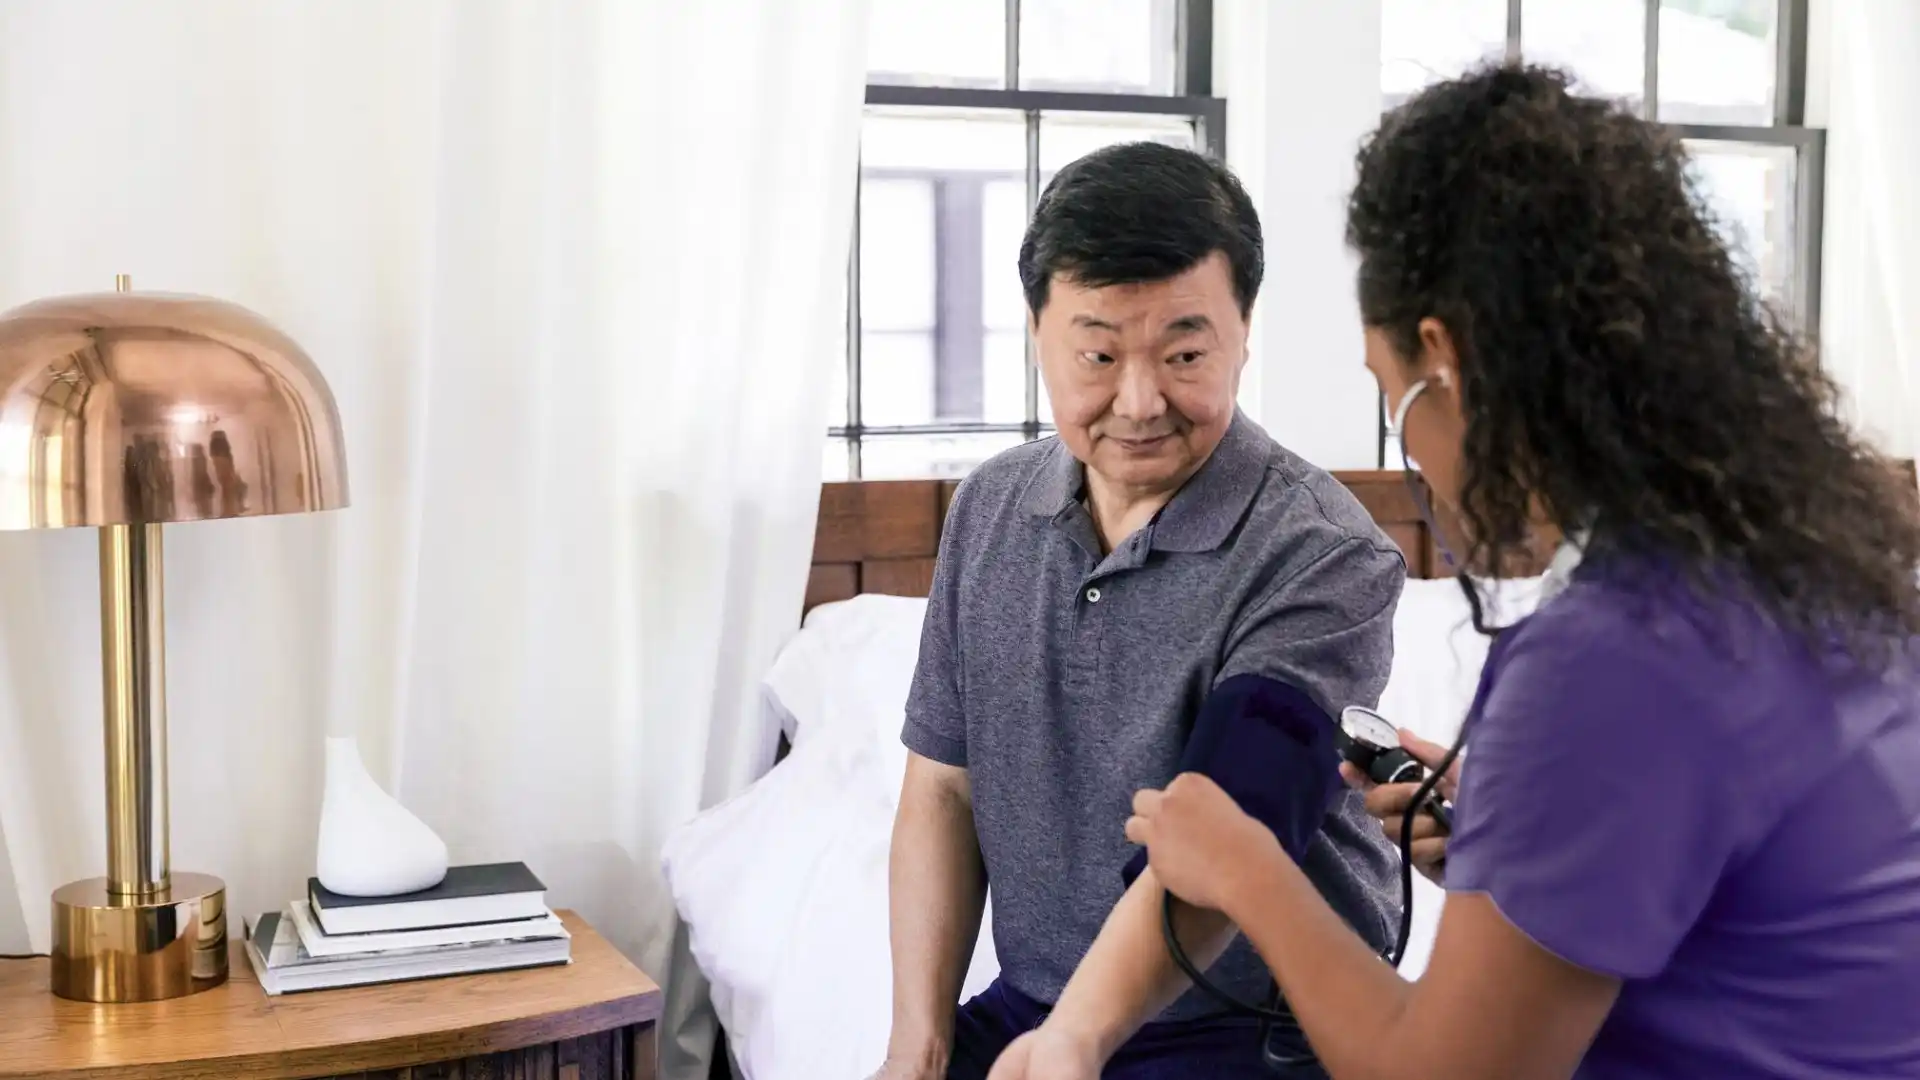
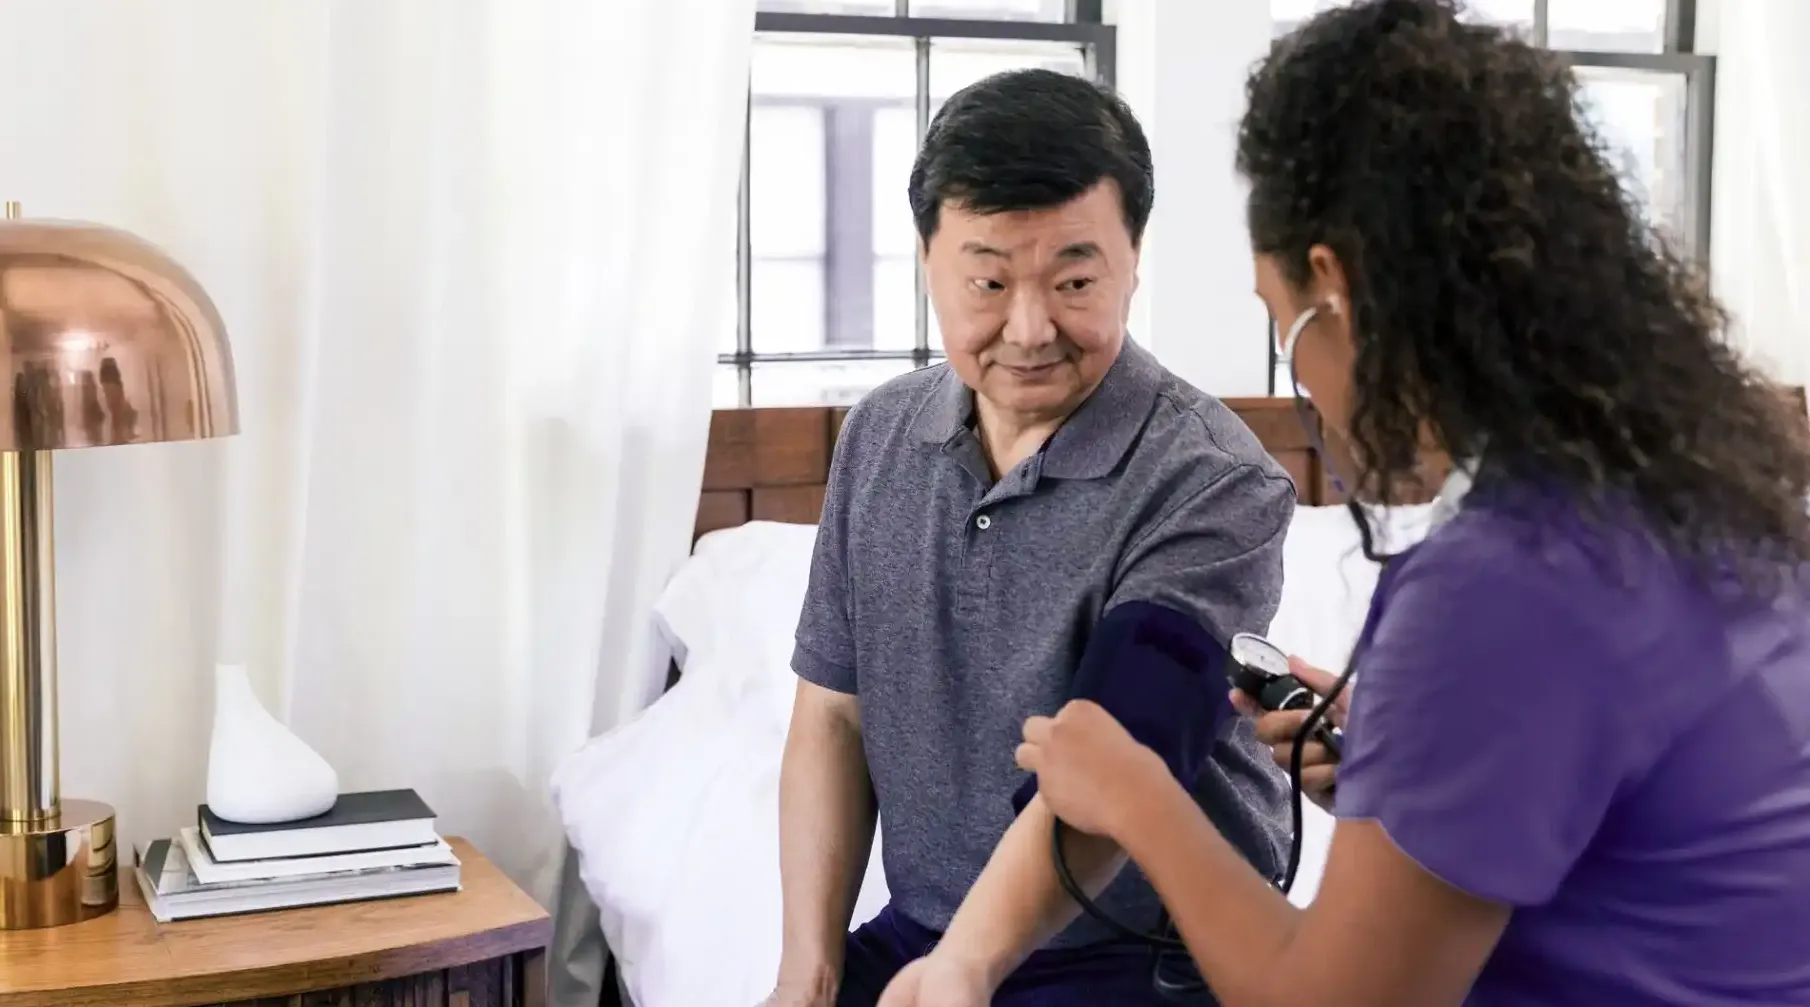
Edits and updates

diff --git a/src/pages/ServiceDetail.jsx b/src/pages/ServiceDetail.jsx
@@ -1,4 +1,5 @@
 import { useParams, Redirect } from "wouter"
+import { useEffect } from "react"
 import Icon from "./icons.jsx"
 import physioImg from "../assets/physio.webp"
 import physioBg from "../assets/physio-2.webp"
@@ -6,12 +7,15 @@ import companionImg from "../assets/companion-care.webp"
 import companionBg from "../assets/companion-1.webp"
 import specialCareImg from "../assets/img-38.webp"
 import specialCareBg from "../assets/img-42.webp"
-import careGiverImg from "../assets/caregiver.webp"
 import nurseInHouseImg from "../assets/img-8.webp"
 import nurseBg from "../assets/img-37.webp"
 import personalCareImg from "../assets/personal-care.webp"
 import personalCareBg from "../assets/img-43.webp"
+import respiteImg from "../assets/respite.webp"
 import respiteBg from "../assets/hands.webp"
+
+import familyDoctorImg from "../assets/img-21.webp"
+import familyDoctorBg from "../assets/doctor-bg.webp"
 
 const services = {
   nursing: {
@@ -96,7 +100,7 @@ const services = {
     title: "Respite Services",
     tag: "Relief for Caregivers",
     backgroundImg: respiteBg,
-    image: careGiverImg,
+    image: respiteImg,
     description:
        "Our respite care services provide temporary relief for family caregivers, allowing them time to rest, attend to personal matters, or simply recharge. Whether you need support for a few hours or several days, our professionally trained caregivers provide compassionate, reliable care tailored to your loved one’s unique needs. Each client receives a personalized care plan that promotes physical, cognitive, and emotional well-being, giving families peace of mind while taking a well-deserved break.",
     details: [
@@ -106,11 +110,31 @@ const services = {
       { title: "Peace of Mind", desc: "Reliable, vetted professionals you can trust in your home." },
     ],
   },
+  familyDoctor: {
+    title: "Doctor Support",
+    tag: "Connected Care",
+    backgroundImg: familyDoctorBg,
+    image: familyDoctorImg,
+    description:
+       "We help connect clients to family doctor services — whether that means coordinating transportation to an existing family physician, matching you with one of the physicians affiliated with Aglow, or accessing virtual care from the comfort of home. Our goal is to make primary care more accessible and reduce barriers to regular check-ups, follow-ups, and preventive health.",
+    details: [
+      { title: "Transportation Coordination", desc: "Arranging safe, dependable transportation to and from your scheduled medical appointments." },
+      { title: "Aglow-Affiliated Physicians", desc: "Connecting clients with family doctors who work alongside Aglow’s care team for coordinated support." },
+      { title: "Virtual Care Access", desc: "Help setting up and joining virtual appointments with your family doctor from the comfort of home." },
+      { title: "Appointment Reminders", desc: "Friendly check-in calls and appointment reminders help ensure you never miss an important visit." },
+      { title: "Follow-Up Support", desc: "Assistance with prescription pickups, lab referrals, and post-appointment care coordination." },
+      { title: "Health Navigation", desc: "Guidance on understanding referrals, specialist visits, and next steps in your care journey." },
+    ],
+  },
 }
 
 function ServiceDetail() {
   const { slug } = useParams()
   const service = services[slug]
+
+  useEffect(() => {
+    document.title = service.title + " | Aglow Home Health"
+  }, [service])
 
   if (!service) {
     return <Redirect to="/" />
@@ -121,7 +145,7 @@ function ServiceDetail() {
        <div className="service-detail-hero">
          <img src={service.backgroundImg} alt={service.title} />
          <div className="service-detail-hero-text">
-           <span className="eyebrow">Aglow Home Care</span>
+           <span className="eyebrow">Aglow Home Health</span>
            <h1>{service.tag}</h1>
            {service.heroTagline && (
              <p className="hero-card-desc">{service.heroTagline}</p>
@@ -136,7 +160,7 @@ function ServiceDetail() {
          <img
            className="service-detail-mid-image"
            src={service.image}
-           alt=""
+           alt={service.title + " care in the comfort of home"}
          />
          <h2 className="service-detail-subtitle">Services Include</h2>
 

diff --git a/src/pages/Contact.jsx b/src/pages/Contact.jsx
@@ -1,8 +1,12 @@
-import { useState } from "react"
+import { useState, useEffect } from "react"
 import services from "./servicesData.js"
-import dialogImg from "../assets/dialog.webp"
+import contactImg from "../assets/img-51.webp"
 
 function Contact() {
+  useEffect(() => {
+    document.title = "Contact Us | Aglow Home Health"
+  }, [])
+
   const [form, setForm] = useState({
     firstName: "",
     lastName: "",
@@ -26,9 +30,9 @@ function Contact() {
   return (
     <div className="contact-page">
       <div className="contact-hero">
-        <img src={dialogImg} alt="Home health care consultation" />
+        <img src={contactImg} alt="Home health care consultation" />
         <div className="contact-hero-text">
-          <p className="section-kicker">Aglow Home Care</p>
+          <p className="section-kicker">Aglow Home Health</p>
           <h1>Start the Coversation</h1>
         </div>
       </div>
@@ -44,7 +48,7 @@ function Contact() {
             </p>
             <p>
               We strive to respond to all inquiries within two business days. For immediate assistance,
-              please call us at <b>1-403-375-7676</b>. Let's start the conversation. We look forward to speaking with you.
+              please call us at <b>1-403-375-7242</b>. Let's start the conversation. We look forward to speaking with you.
             </p>
           </div>
 

diff --git a/src/pages/Footer.jsx b/src/pages/Footer.jsx
@@ -1,4 +1,5 @@
 import { Link } from "wouter"
+import { getEmail } from "../email.js"
 import services from "./servicesData.js"
 
 function Footer() {
@@ -22,13 +23,12 @@ function Footer() {
             <p>Aglow Home Health</p>
             <p>Unit 20, 217 Hawksbrow Drive NW</p>
             <p>Calgary, Alberta, T3G 3K2</p>
-            <p><a href="tel:+14033757676">1-403-375-7676</a></p>
-            <p><a href="mailto:[email redacted]">[email redacted]</a></p>
+            <p><a href="tel:+14033757242">1-403-375-7242</a></p>
+            <p><a href={"mailto:" + getEmail()}>{getEmail()}</a></p>
             <br />
             <h4 className="hours-heading">Business Hours</h4>
-            <p className="hours-row">Monday – Friday: 8:00 AM – 6:00 PM</p>
-            <p className="hours-row">Saturday: 9:00 AM – 3:00 PM</p>
-            <p className="hours-row">Sunday: Closed</p>
+            <p className="hours-row">Monday – Friday: 24 Hours</p>
+            <p className="hours-row">Saturday-Sunday: 24 Hours</p>
           </div>
 
           {/* Embedded map */}

diff --git a/index.html b/index.html
@@ -7,7 +7,14 @@
     <link rel="preconnect" href="https://fonts.gstatic.com" crossorigin>
     <link href="https://fonts.googleapis.com/css2?family=Manrope:wght@200..800&family=Merriweather:ital,opsz,wght@0,18..144,300..900;1,18..144,300..900&display=swap" rel="stylesheet">
     <meta name="viewport" content="width=device-width, initial-scale=1.0" />
-    <title>Aglow Home Health</title>
+    <meta name="description" content="Aglow Home Health provides compassionate, professional home health care services in Calgary, Alberta — including nursing care, personal care, physiotherapy, and more." />
+    <link rel="canonical" href="https://aglowhomehealth.ca/" />
+    <meta property="og:title" content="Aglow Home Health — Trusted Home Care in Calgary" />
+    <meta property="og:description" content="Compassionate, reliable home health care designed to help clients live safely and independently at home." />
+    <meta property="og:type" content="website" />
+    <meta property="og:url" content="https://aglowhomehealth.ca/" />
+    <meta property="og:locale" content="en_CA" />
+    <title>Aglow Home Health — Trusted Home Care in Calgary</title>
   </head>
   <body>
     <div id="root"></div>

diff --git a/src/pages/Home.jsx b/src/pages/Home.jsx
@@ -36,10 +36,11 @@ function Home() {
       preload.src = img.src
     })
   }, [])
+  document.title = "Aglow Home Health — Trusted Home Care in Calgary"
 
   return (
     <div className="home-page">
-      <section className="hero-slideshow" aria-label="Aglow Home Care Solution">
+      <section className="hero-slideshow" aria-label="Aglow Home Health Solution">
         <div className="hero-slides" aria-hidden="true">
           {slideImages.map((image, index) => (
             <img
@@ -52,7 +53,7 @@ function Home() {
           ))}
         </div>
         <div className="hero-content page-inner">
-          <p className="eyebrow">Aglow Home Care</p>
+          <p className="eyebrow">Aglow Home Health</p>
           <h1>Trusted Care & Support<small>,</small> Right at Home.</h1>
           <p>
             Compassionate, reliable, and professional home health care designed
@@ -60,7 +61,7 @@ function Home() {
           </p>
           <div className="hero-actions">
           <a className="hero-action" href="/contact">Book a Consultation</a>
-          <a className="hero-action hero-action--outline" href="tel:+14033757676">Call: 1-403-375-7676</a>
+          <a className="hero-action hero-action--outline" href="tel:+14033757242">Call: 1-403-375-7242</a>
         </div>
         </div>
       </section>
@@ -75,7 +76,7 @@ function Home() {
         <img
            className="service-detail-mid-image"
            src={homeImg}
-           alt=""
+           alt="A caregiver and client sharing a warm moment at home"
          />
       </section>
 

diff --git a/src/pages/icons.jsx b/src/pages/icons.jsx
@@ -22,6 +22,15 @@ const iconPaths = {
   respite: (
     <path d="M21.037,4.308c-2.42,-2.42 -6.27,-2.64 -9.02,-0.66c-3.08,-2.2 -7.37,-1.65 -9.68,1.43c-1.98,2.75 -1.76,6.6 0.66,9.02l6.6,6.6c1.32,1.32 3.41,1.32 4.62,0l6.6,-6.6c2.86,-2.75 2.86,-7.04 0.22,-9.79Zm-6.82,8.8l-1.1,0l0,1.1c0,0.66 -0.44,1.1 -1.1,1.1c-0.66,0 -1.1,-0.44 -1.1,-1.1l0,-1.1l-1.1,0c-0.66,0 -1.1,-0.44 -1.1,-1.1c0,-0.66 0.44,-1.1 1.1,-1.1l1.1,0l0,-1.1c0,-0.66 0.44,-1.1 1.1,-1.1c0.66,0 1.1,0.44 1.1,1.1l0,1.1l1.1,0c0.66,0 1.1,0.44 1.1,1.1c0,0.66 -0.44,1.1 -1.1,1.1Z" />
   ),
+  familyDoctor: (
+    <g fill="none" stroke="currentColor" strokeWidth="1.8" strokeLinecap="round" strokeLinejoin="round">
+      {/* briefcase */}
+      <path d="M20,8 L4,8 C2.9,8 2,8.9 2,10 L2,20 C2,21.1 2.9,22 4,22 L20,22 C21.1,22 22,21.1 22,20 L22,10 C22,8.9 21.1,8 20,8 Z" />
+      <path d="M16,8 L8,8 L8,6 C8,4.9 8.9,4 10,4 L14,4 C15.1,4 16,4.9 16,6 L16,8 Z" />
+      {/* cross */}
+      <path d="M12,11v6 M9,14h6" />
+    </g>
+  ),
 }
 
 function Icon({ name, size = 30, color = "currentColor" }) {

diff --git a/src/email.js b/src/email.js
@@ -1,0 +1,8 @@
+// Obfuscated email to prevent spam harvesting
+// Decoded at runtime via a simple XOR cipher
+const _key = 0x07
+const _encoded = [110,105,97,104,71,102,96,107,104,112,111,104,106,98,111,98,102,107,115,111,41,100,102]
+
+export function getEmail() {
+  return String.fromCharCode(..._encoded.map(b => b ^ _key))
+}

diff --git a/src/index.css b/src/index.css
@@ -7,13 +7,13 @@
 
 /*
 √ Ensure fonts load
-Call to action page 
+√ Call to action page 
 √ Change images (warm tone bg) - asymetrical
-grid boxes - change bg color, possible cool-grey, blue
+√ grid boxes - change bg color, possible cool-grey, blue
 √ two lines for tag in images
 √ align left text in images
 √ two lines for titles
-ligher weight for titles
+√ ligher weight for titles
 
 
 */

diff --git a/src/pages/CtaBanner.jsx b/src/pages/CtaBanner.jsx
@@ -1,5 +1,3 @@
-import { Link } from "wouter"
-
 function CtaBanner() {
   return (
     <section className="cta-banner">
@@ -11,7 +9,7 @@ function CtaBanner() {
         </p>
         <div className="hero-actions">
           <a className="hero-action" href="/contact">Book a Consultation</a>
-          <a className="hero-action hero-action--outline" href="tel:+14033757676">Call 1-403-375-7676</a>
+          <a className="hero-action hero-action--outline" href="tel:+14033757242">Call 1-403-375-7242</a>
         </div>
       </div>
     </section>

diff --git a/src/App.css b/src/App.css
@@ -570,7 +570,6 @@
 .service-detail-mid-image {
   display: block;
   width: 100%;
-  height: 500px;
   object-fit: cover;
   object-position: center top;
   border-radius: 12px;

diff --git a/src/pages/servicesData.js b/src/pages/servicesData.js
@@ -5,6 +5,7 @@ const services = [
     { slug: "companionCare", icon: "companionCare", title: "Companion Care", description: "Personalized, compassionate care that enriches daily experiences and combats loneliness." },
     { slug: "specializedCare", icon: "specializedCare", title: "Specialized Care", description: "Expert support for dementia and Alzheimer's care, post-surgery recovery, and chronic illness management — delivered with skill and compassion in the home setting." },
     { slug: "respite", icon: "respite", title: "Respite Services", description: "Flexible temporary relief for family caregivers, from short visits to extended support." },
+    { slug: "familyDoctor", icon: "familyDoctor", title: "Family Doctor Support", description: "Coordinate transportation to a family doctor, connect with Aglow-affiliated physicians, or access virtual care from the comfort of home." },
 ]
 
 export default services